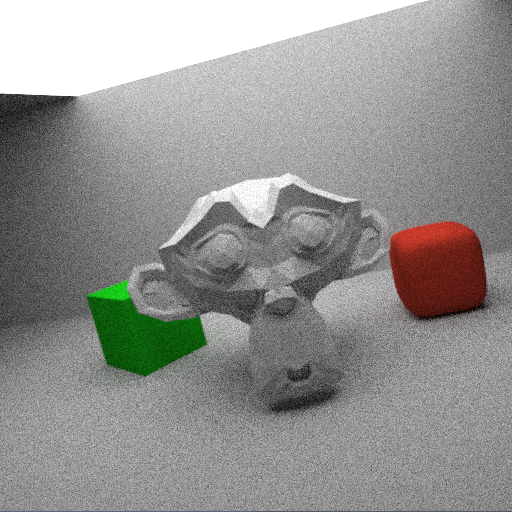
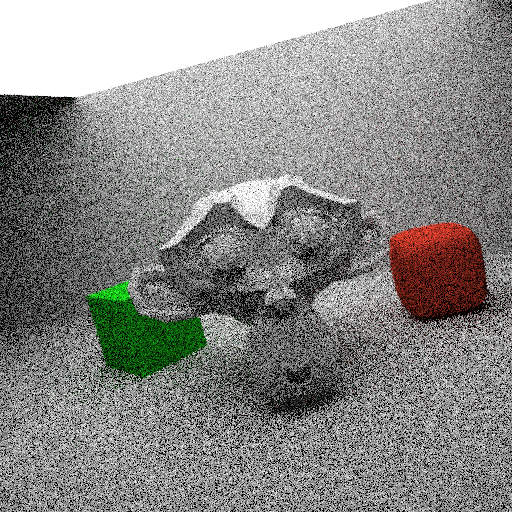
report: new figures

diff --git a/report/report.tex b/report/report.tex
@@ -221,7 +221,7 @@ The most basic example of importance sampling is using the fact that all BRDFs m
 To keep the expected value of the Monte Carlo integration the same we need to account for the fact that we are no longer sampling $f$ uniformly. This is done by simply dividing the sampled value by the probability of choosing that value since
 
 \begin{equation}
-E[\frac{1}{N} \sum_{i=1}^{N} f(X_i)], X \sim U = E[\frac{1}{N} \sum_{i=1}^{N} \frac{f(X_i)}{p(X_i)}], X \sim p
+E[\frac{1}{N} \sum_{i=1}^{N} f(X_i)], X \sim U = E[\frac{1}{N} \sum_{i=1}^{N} \frac{f(X_i)}{p(X_i)}], X \sim p \text{\footnote{TODO: I know this is not quite right, I need to find the proper equalitiy for expected values of different distributions.}}
 \end{equation}
 
 There is a lot of value in finding a good approximation to a BRDF since sampling even relatively complex approximations is very cheap compared intersection tests. Better importance sampling directly correlates with less variance and thus reduces the number of needed path samples per pixel dramatically.
@@ -261,7 +261,7 @@ There is a lot of value in finding a good approximation to a BRDF since sampling
   \centering
   \includegraphics[width=5cm,natwidth=512,natheight=512]{figures/50_spp_cosine_weighted.png}
   \includegraphics[width=5cm,natwidth=512,natheight=512]{figures/50_spp_uniform.png}
-  \caption{Left: Cosine Weighted Sampling, Right: Uniform Sampling TODO: GET CORRECT RENDERS OF BOTH CASES}
+  \caption{Left: Cosine Weighted Sampling, Right: Uniform Sampling}
   \label{fig:rendering-cos-weighted}
 \end{figure}
 
